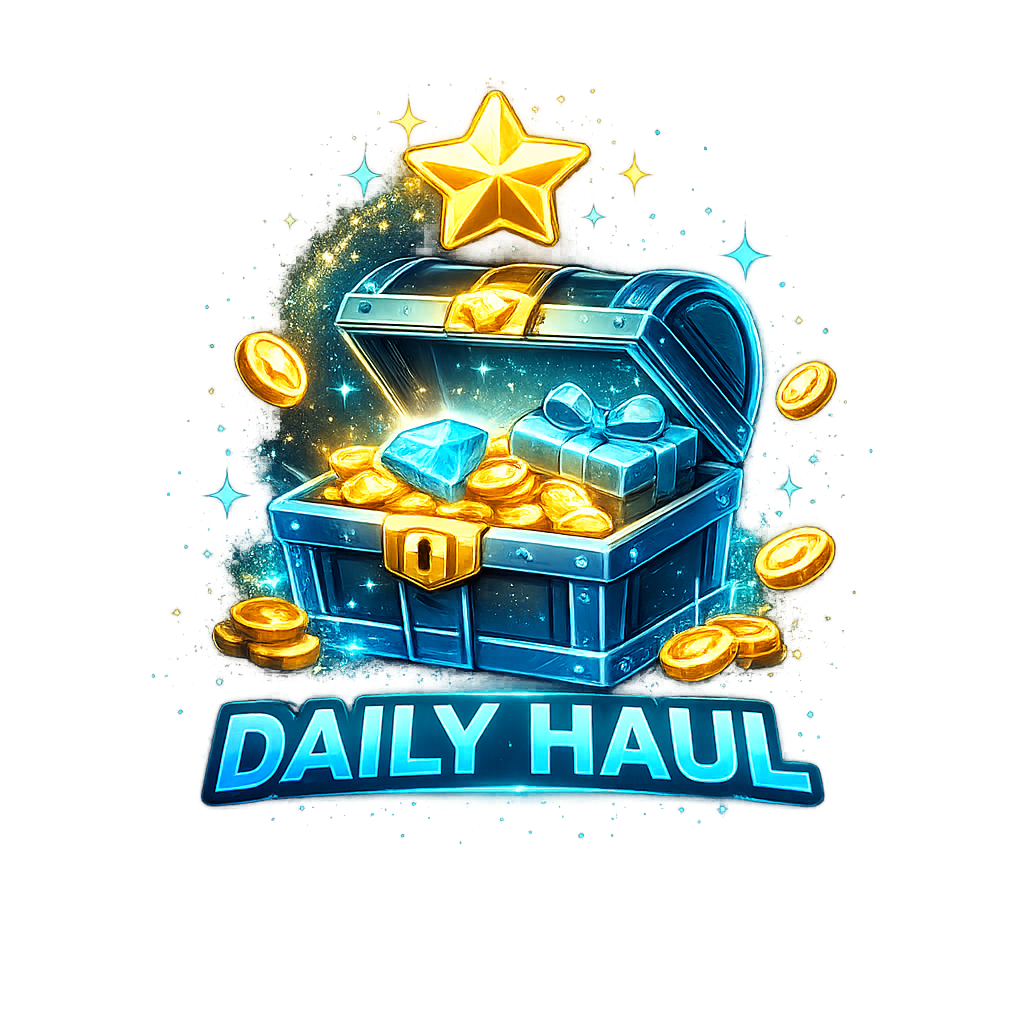
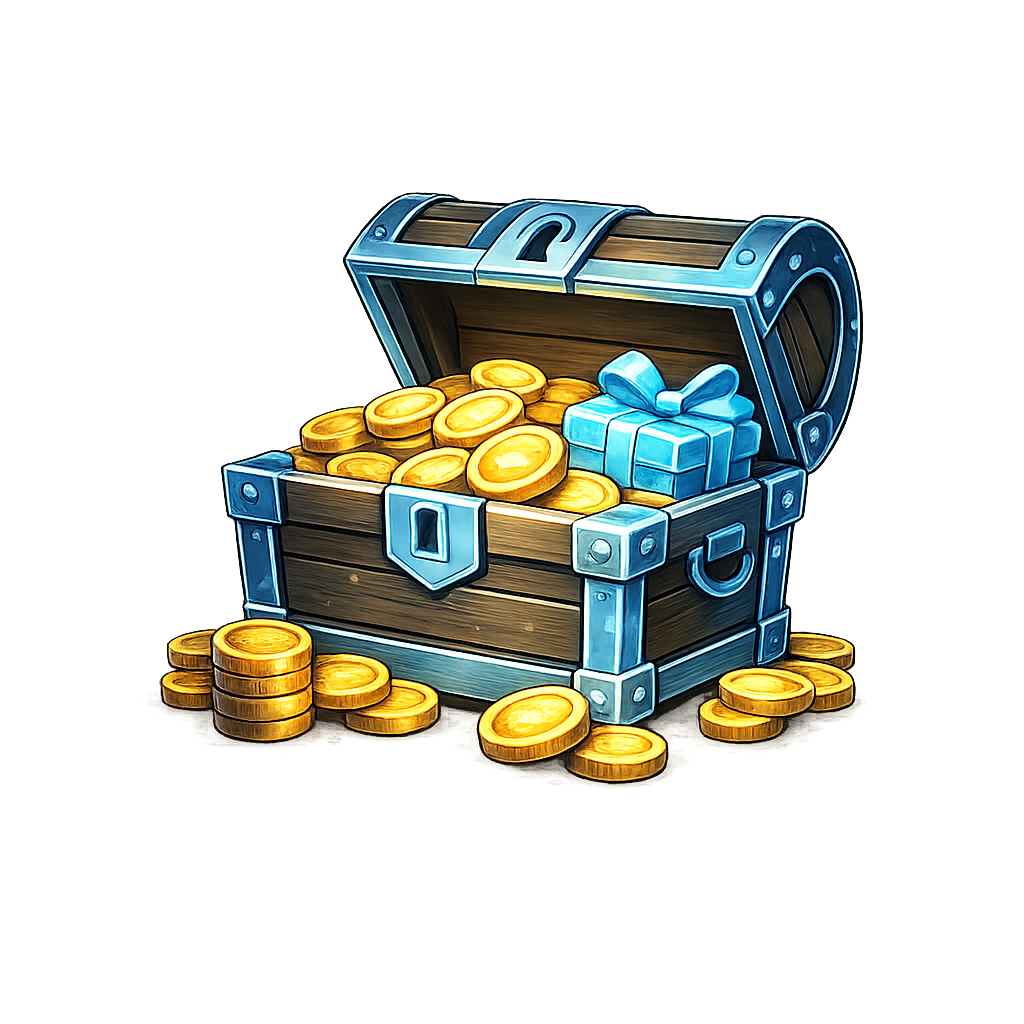
Bug fixes and image addition for active vs. not

diff --git a/server/src/routes/dailyHaul.ts b/server/src/routes/dailyHaul.ts
@@ -1,4 +1,5 @@
 import express, { Request, Response } from 'express';
+import mongoose from 'mongoose';
 import auth from '../middleware/auth';
 import { User } from '../models/User';
 import {
@@ -134,54 +135,130 @@ router.get('/status', auth, async (req: Request, res: Response) => {
   }
 });
 
-/** POST /api/daily-haul/claim — claim next day; credit balance; return amount, day, resetsAt, balance */
+/** POST /api/daily-haul/claim — claim next day; credit balance; return amount, day, resetsAt, balance. Uses transaction + atomic findOneAndUpdate to prevent double reward on concurrent requests. */
 router.post('/claim', auth, async (req: Request, res: Response) => {
   try {
-    const user = await User.findById(req.user!._id);
-    if (!user) {
-      res.status(404).json({ error: 'User not found' });
-      return;
-    }
-
+    const userId = req.user!._id;
     const now = new Date();
     const weekStart = getWeekStartUtc(now);
     const resetsAt = getNextResetUtc(now);
-
-    const stored = user.dailyHaul;
-    const isSameWeek = stored?.weekStartUtc && new Date(stored.weekStartUtc).getTime() === weekStart.getTime();
-    const claimedDays: number[] = isSameWeek && Array.isArray(stored!.claimedDays) ? [...stored!.claimedDays] : [];
-    const lastClaimedDateUtc = isSameWeek ? stored?.lastClaimedDateUtc : undefined;
-
-    const todayDayNum = getDayOfWeekUtc(now);
     const todayStartUtc = getStartOfDayUtc(now);
-    const markedOffDays = getMarkedOffDays(todayDayNum);
-    const nextClaimDay = getNextClaimDayNum(claimedDays.length, todayDayNum);
-    const allowedToClaimToday = canClaimToday(lastClaimedDateUtc, todayStartUtc);
+    const todayDayNum = getDayOfWeekUtc(now);
 
-    if (nextClaimDay === null || !allowedToClaimToday) {
-      res.status(400).json({ error: 'No claim available this week' });
+    const session = await mongoose.startSession();
+    let updatedUser: InstanceType<typeof User> | null = null;
+    let awardedAmount = 0;
+    let claimedDay: DailyHaulDay = 1;
+
+    try {
+      await session.withTransaction(async () => {
+        const user = await User.findById(userId).session(session);
+        if (!user) {
+          throw new Error('User not found');
+        }
+
+        const stored = user.dailyHaul;
+        const isSameWeek = stored?.weekStartUtc && new Date(stored.weekStartUtc).getTime() === weekStart.getTime();
+        const claimedDays: number[] = isSameWeek && Array.isArray(stored!.claimedDays) ? stored!.claimedDays : [];
+        const lastClaimedDateUtc = isSameWeek ? stored?.lastClaimedDateUtc : undefined;
+
+        const nextClaimDay = getNextClaimDayNum(claimedDays.length, todayDayNum);
+        const allowedToClaimToday = canClaimToday(lastClaimedDateUtc, todayStartUtc);
+
+        if (nextClaimDay === null || !allowedToClaimToday) {
+          throw new Error('No claim available this week');
+        }
+
+        const day = nextClaimDay as DailyHaulDay;
+        const amount = rollReward(day);
+        awardedAmount = amount;
+        claimedDay = day;
+
+        const lastClaimedFilter = {
+          $or: [
+            { 'dailyHaul.lastClaimedDateUtc': null },
+            { 'dailyHaul.lastClaimedDateUtc': { $exists: false } },
+            { 'dailyHaul.lastClaimedDateUtc': { $lt: todayStartUtc } },
+          ],
+        };
+
+        let result: InstanceType<typeof User> | null = null;
+
+        if (isSameWeek) {
+          const sameWeekFilter: mongoose.FilterQuery<InstanceType<typeof User>> = {
+            _id: userId,
+            'dailyHaul.weekStartUtc': weekStart,
+            $expr: { $eq: [{ $size: { $ifNull: ['$dailyHaul.claimedDays', []] } }, day - 1] },
+            ...lastClaimedFilter,
+          };
+          result = await User.findOneAndUpdate(
+            sameWeekFilter,
+            {
+              $set: {
+                'dailyHaul.lastClaimedDateUtc': todayStartUtc,
+                'balance.lastUpdated': now,
+              },
+              $push: {
+                'dailyHaul.claimedDays': day,
+                'dailyHaul.awardedAmounts': amount,
+              },
+              $inc: { 'balance.total': amount },
+            },
+            { session, new: true }
+          );
+        }
+
+        if (!result && day === 1) {
+          const newWeekFilter: mongoose.FilterQuery<InstanceType<typeof User>> = {
+            _id: userId,
+            $and: [
+              {
+                $or: [
+                  { dailyHaul: null },
+                  { dailyHaul: { $exists: false } },
+                  { 'dailyHaul.weekStartUtc': { $ne: weekStart } },
+                ],
+              },
+              lastClaimedFilter,
+            ],
+            $expr: { $eq: [{ $size: { $ifNull: ['$dailyHaul.claimedDays', []] } }, 0] },
+          };
+          result = await User.findOneAndUpdate(
+            newWeekFilter,
+            {
+              $set: {
+                dailyHaul: {
+                  weekStartUtc: weekStart,
+                  claimedDays: [day],
+                  awardedAmounts: [amount],
+                  lastClaimedDateUtc: todayStartUtc,
+                },
+                'balance.lastUpdated': now,
+              },
+              $inc: { 'balance.total': amount },
+            },
+            { session, new: true }
+          );
+        }
+
+        if (!result) {
+          throw new Error('Claim conflict');
+        }
+        updatedUser = result;
+      });
+    } finally {
+      await session.endSession();
+    }
+
+    if (!updatedUser) {
+      res.status(500).json({ error: 'Server error' });
       return;
     }
 
-    const day = nextClaimDay as DailyHaulDay;
-    const amount = rollReward(day);
-
-    const existingAwarded = isSameWeek && Array.isArray(stored?.awardedAmounts) ? stored.awardedAmounts : [];
-    if (!user.dailyHaul) {
-      user.dailyHaul = { weekStartUtc: weekStart, claimedDays: [], awardedAmounts: [], lastClaimedDateUtc: todayStartUtc };
-    }
-    user.dailyHaul.weekStartUtc = weekStart;
-    user.dailyHaul.claimedDays = [...claimedDays, day];
-    user.dailyHaul.awardedAmounts = [...existingAwarded, amount];
-    user.dailyHaul.lastClaimedDateUtc = todayStartUtc;
-
-    user.balance.total += amount;
-    user.balance.lastUpdated = new Date();
-    await user.save();
-
+    const user = updatedUser as InstanceType<typeof User>;
     res.json({
-      awardedAmount: amount,
-      day,
+      awardedAmount,
+      day: claimedDay,
       resetsAt: resetsAt.toISOString(),
       balance: {
         total: user.balance.total,
@@ -190,6 +267,16 @@ router.post('/claim', auth, async (req: Request, res: Response) => {
       },
     });
   } catch (error: unknown) {
+    if (error instanceof Error) {
+      if (error.message === 'User not found') {
+        res.status(404).json({ error: 'User not found' });
+        return;
+      }
+      if (error.message === 'No claim available this week' || error.message === 'Claim conflict') {
+        res.status(400).json({ error: 'No claim available this week' });
+        return;
+      }
+    }
     console.error('Daily haul claim error:', error);
     res.status(500).json({ error: 'Server error' });
   }

diff --git a/mobile/src/components/turf/DailyHaulLocation.tsx b/mobile/src/components/turf/DailyHaulLocation.tsx
@@ -170,7 +170,11 @@ export const DailyHaulLocation = memo(function DailyHaulLocation() {
           accessibilityHint="Opens daily reward"
         >
           <Image
-            source={require('../../assets/images/ui/dailyHaul.png')}
+            source={
+              canClaim
+                ? require('../../assets/images/ui/dailyHaulActive.png')
+                : require('../../assets/images/ui/dailyHaul.png')
+            }
             style={styles.iconImage}
             resizeMode="contain"
           />
